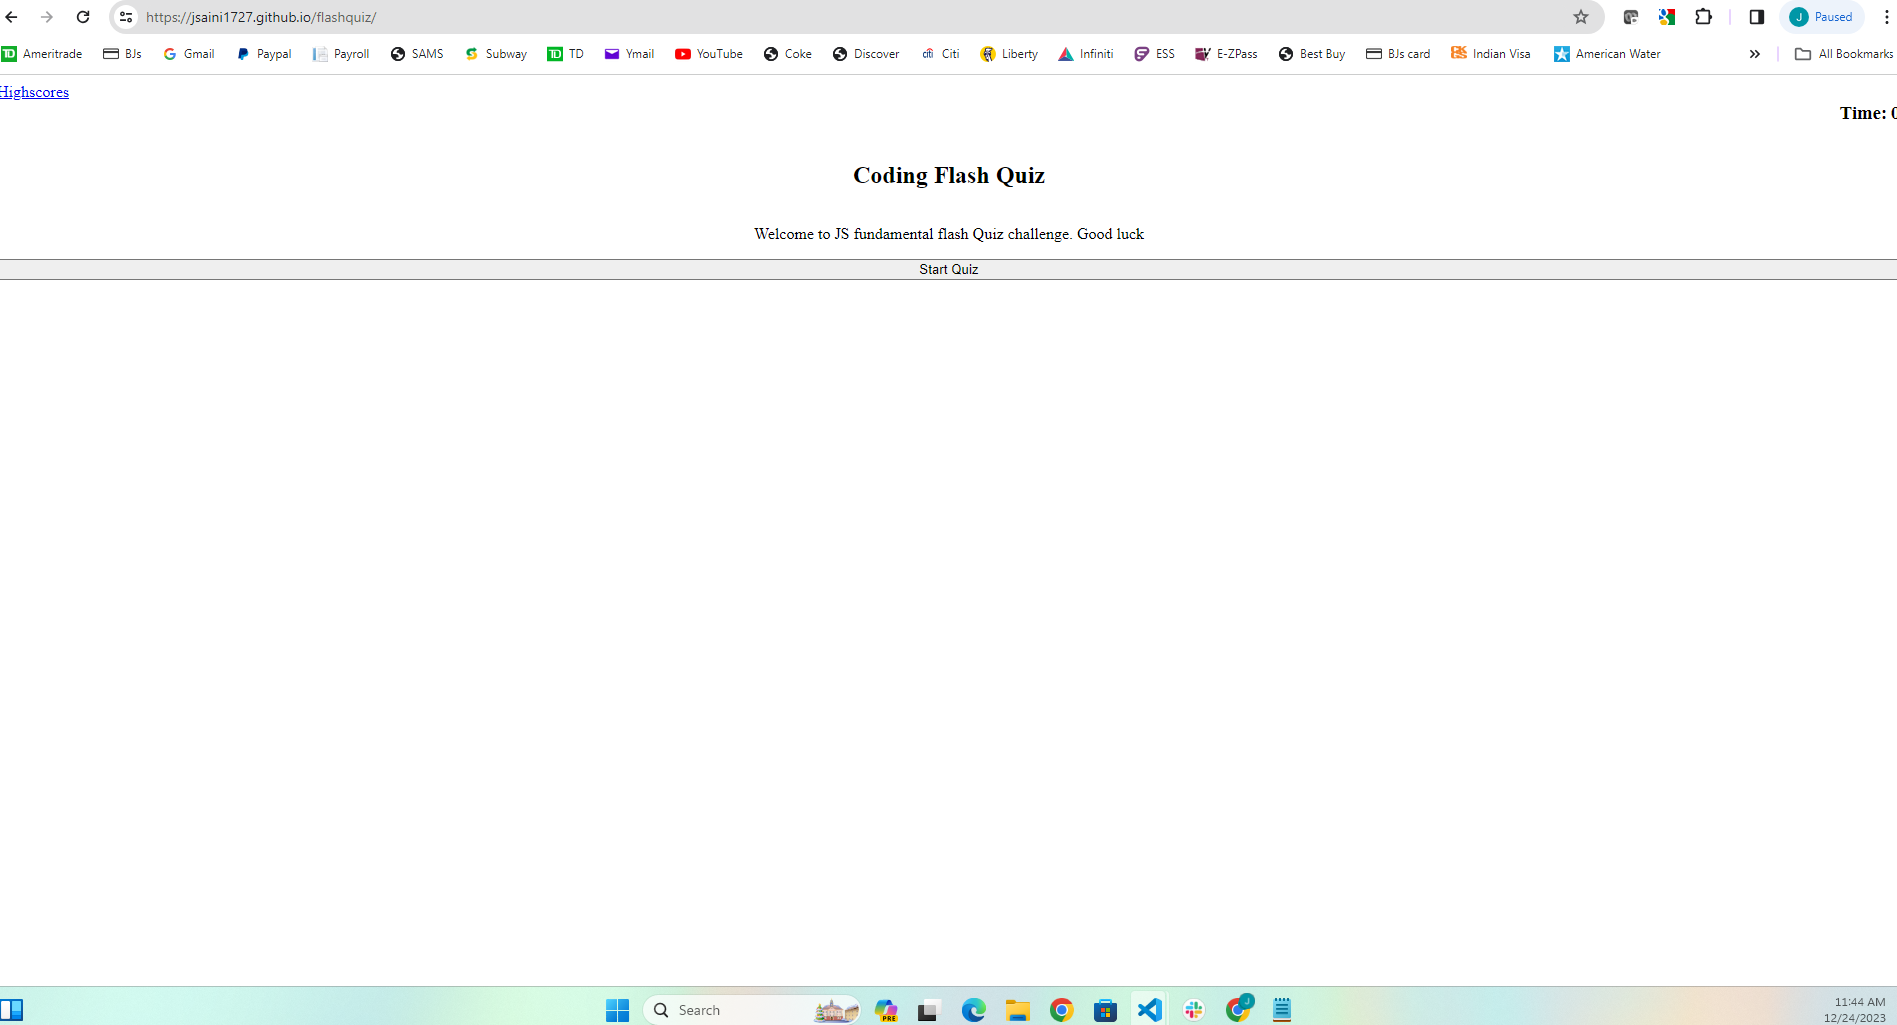
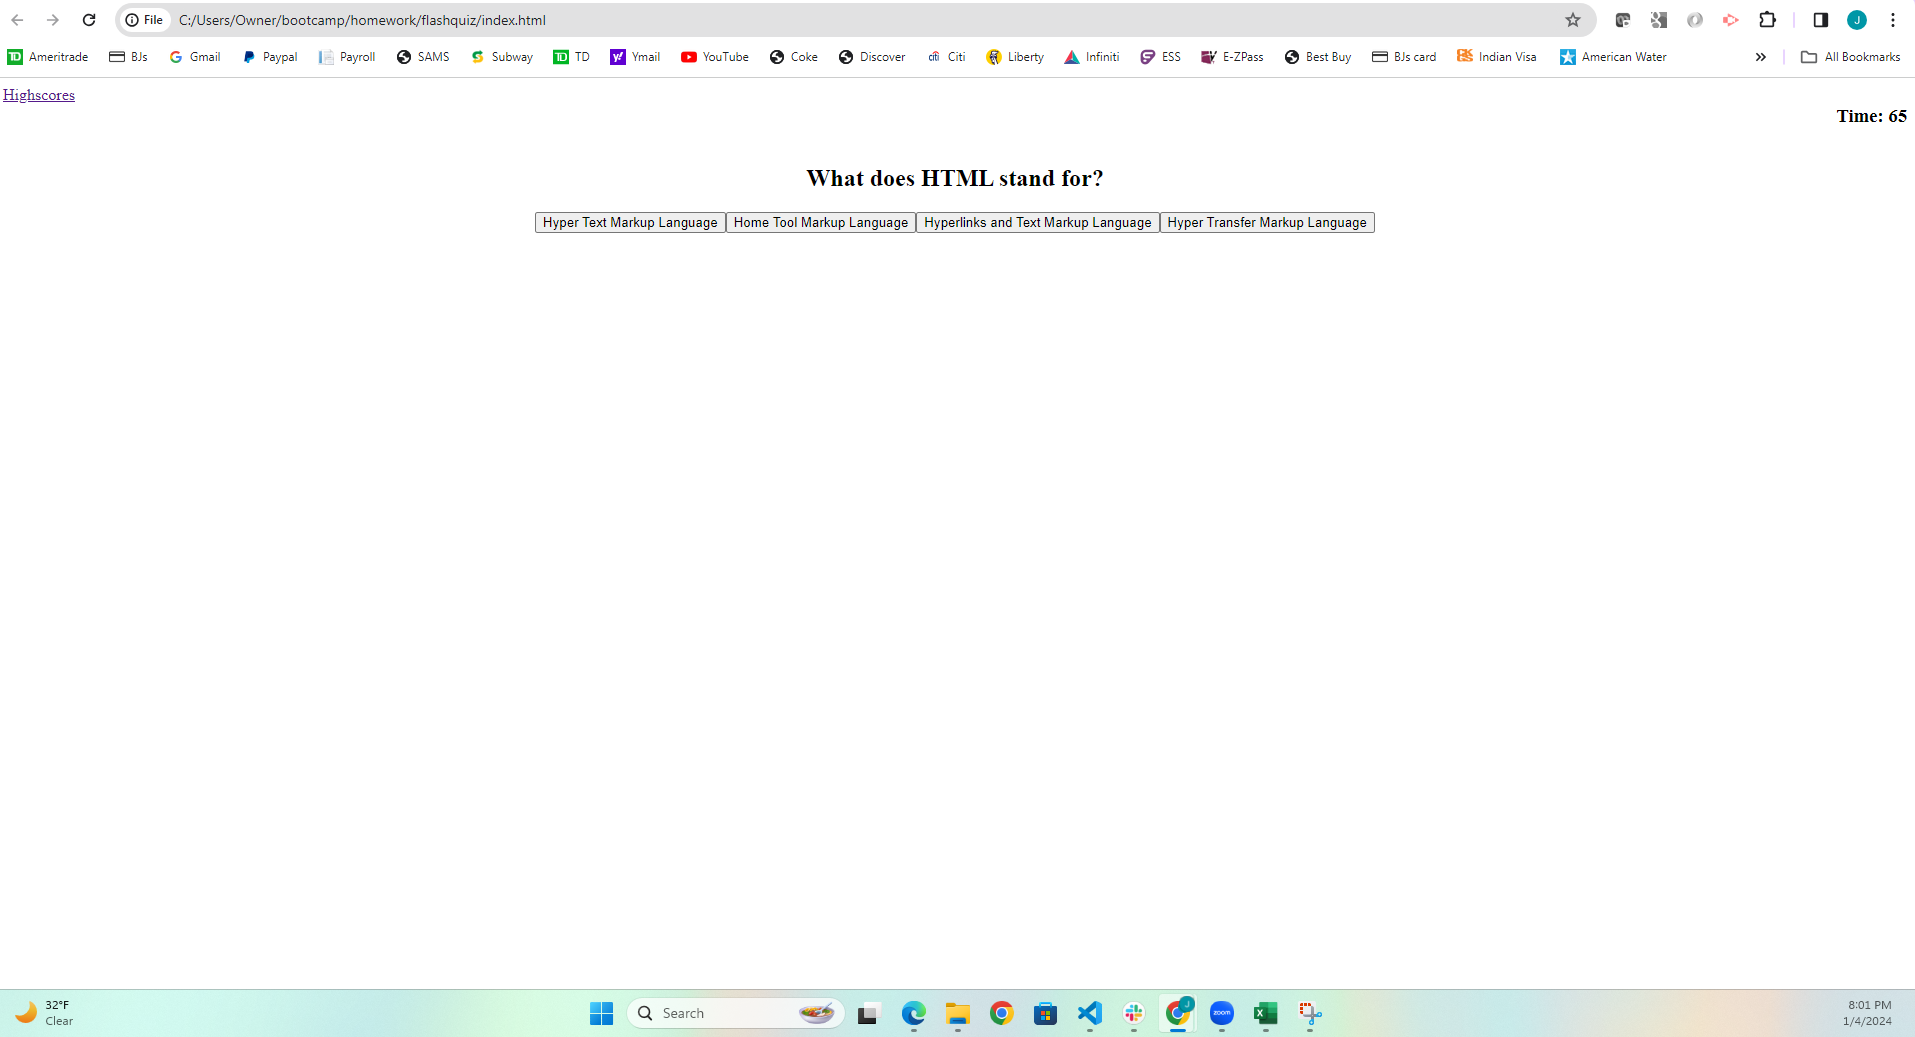
I had copied the questions from Xpert Learning just like we had done in class during practice, I made a sincere effort to do things on my own and I will continue to do so in future.

diff --git a/assets/js/questions.js b/assets/js/questions.js
@@ -1,28 +1,28 @@
 var questionContainer = [
     {
-        questionText:'What does JS stand for?',
-        choices:['Just Sitting', 'Just Stylin', 'Just Standing','Javascript'],
-        correctAnswer: 'Javascript',
+        questionText:'What does HTML stand for?',
+        choices:['Hyper Text Markup Language', 'Home Tool Markup Language', 'Hyperlinks and Text Markup Language','Hyper Transfer Markup Language'],
+        correctAnswer: 'Hyper Text Markup Language',
         
     },
     {
-      questionText: 'What is the purpose of the map method in JavaScript?',
-      choices: ['To iterate over the elements of an array and modify each element', 'To filter out elements from an array based on a condition', 'To add new elements to the beginning or end of an array', 'To sort the elements of an array in ascending order'],
-      correctAnswer: 'To iterate over the elements of an array and modify each element'
+      questionText: 'Which CSS property is used to make an elements text bold?',
+      choices: ['font-style', 'text-decoration', 'font-weight', 'text-transform'],
+      correctAnswer: 'font-weight',
     },
     {
-      questionText: 'How do you declare a variable in JavaScript?',
-      choices: ['let myVar = 10;', 'const myVar = 10;', 'var myVar = 10;', 'All of the above'],
-      correctAnswer: 'All of the above'
+      questionText: 'Which CSS property is used to change the text color of an element?',
+      choices: ['font-size', 'background-color', 'color', 'text-align'],
+      correctAnswer: 'color',
     },
     {
-      questionText: 'What is the purpose of the setTimeout function in JavaScript?',
-      choices: ['To execute a function after a specified delay', 'To repeat a function at regular intervals', 'To check if a condition is true or false', 'To convert a string to a number'],
-      correctAnswer: 'To execute a function after a specified delay'
+      questionText: 'Which jQuery method is used to retrieve the value of an input field?',
+      choices: ['getValue()', 'retrieveValue()', 'val()', 'text()'],
+      correctAnswer: 'val()',
     },
     {
-      questionText: 'What is the result of the following expression: 5 + "5"?',
-      choices: ['10', '55', '"55"', 'NaN'],
-      correctAnswer: '55'
+      questionText: 'What does CSS stand for?',
+      choices: ['Cascading Style Sheet', 'Creative Style Sheet', 'Computer Style Sheet', 'Colorful Style Sheet'],
+      correctAnswer: 'Cascading Style Sheet',
     }
   ];
